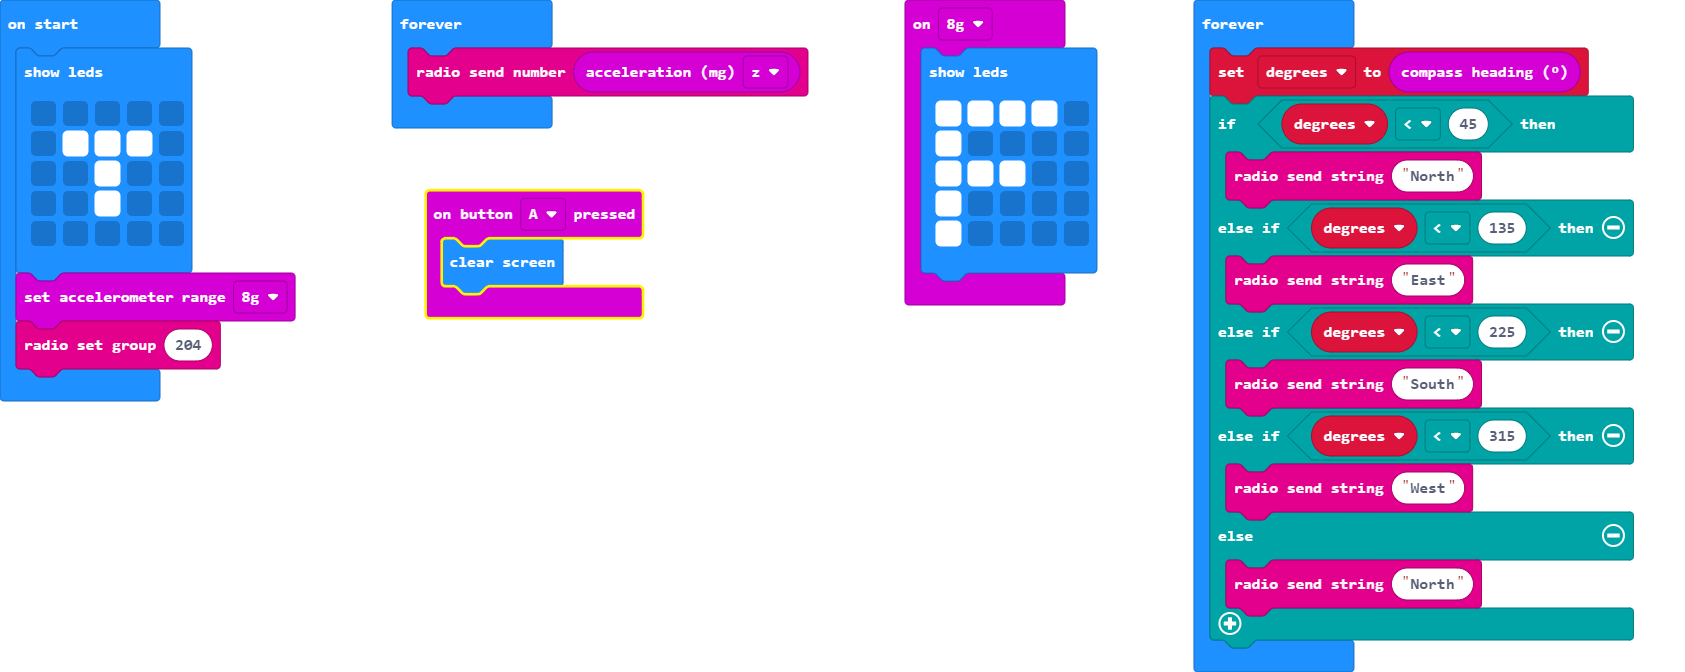
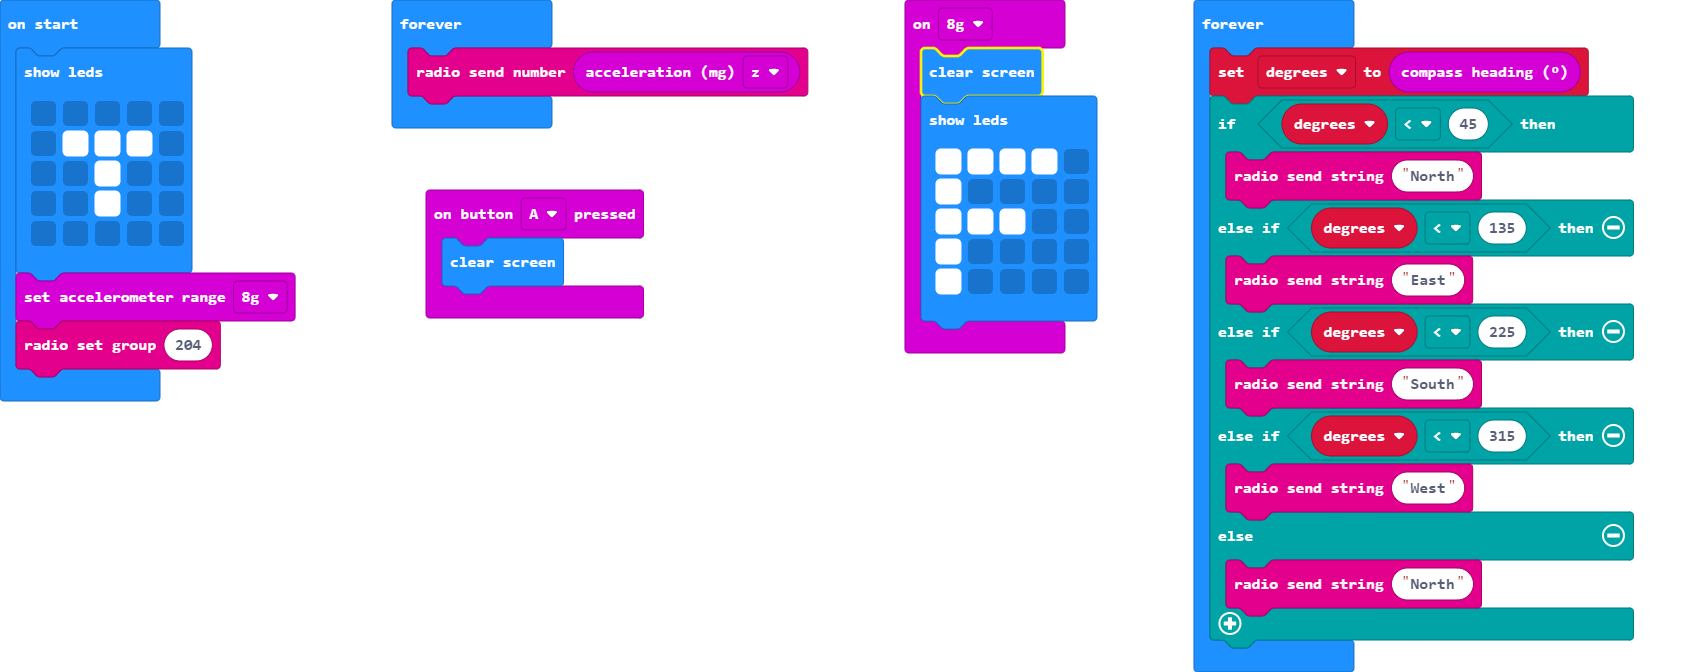
Update pxt.json, main.blocks, main.ts

Changed region(s): [[0.5246, 0.0625, 0.6789, 0.5312], [0.2469, 0.2812, 0.4012, 0.4375], [0.2469, 0.4688, 0.3703, 0.5]]

diff --git a/main.ts b/main.ts
@@ -1,4 +1,5 @@
-input.onGesture(Gesture.EightG, function on_gesture_eight_g() {
+input.onGesture(Gesture.EightG, function () {
+    basic.clearScreen()
     basic.showLeds(`
         # # # # .
         # . . . .
@@ -7,7 +8,7 @@ input.onGesture(Gesture.EightG, function on_gesture_eight_g() {
         # . . . .
         `)
 })
-input.onButtonPressed(Button.A, function on_button_pressed_a() {
+input.onButtonPressed(Button.A, function () {
     basic.clearScreen()
 })
 let degrees = 0
@@ -20,11 +21,10 @@ basic.showLeds(`
     `)
 input.setAccelerometerRange(AcceleratorRange.EightG)
 radio.setGroup(204)
-basic.forever(function on_forever() {
+basic.forever(function () {
     radio.sendNumber(input.acceleration(Dimension.Z))
 })
-basic.forever(function on_forever2() {
-    
+basic.forever(function () {
     degrees = input.compassHeading()
     if (degrees < 45) {
         radio.sendString("North")
@@ -37,5 +37,4 @@ basic.forever(function on_forever2() {
     } else {
         radio.sendString("North")
     }
-    
 })
